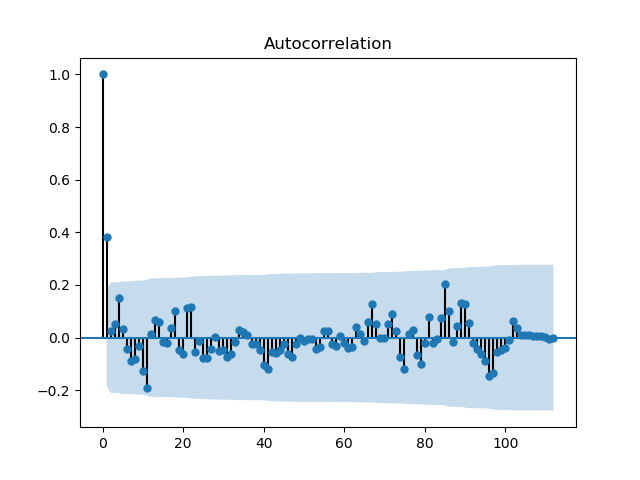
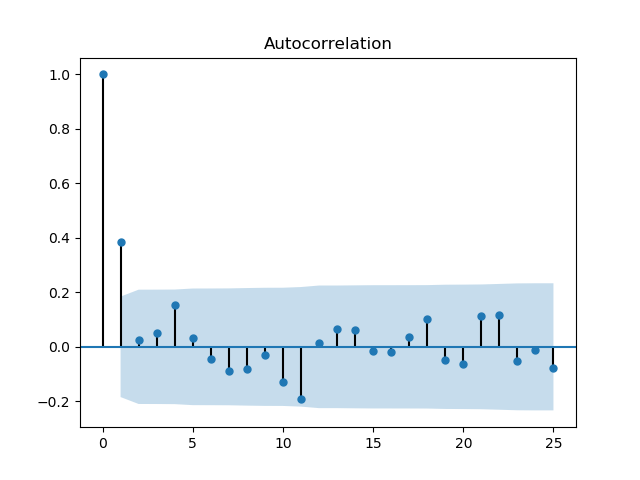
pushing everything

diff --git a/1/arima_all.py b/1/arima_all.py
@@ -4,6 +4,7 @@ import statsmodels.api as sm
 import numpy as np
 import matplotlib.pyplot as plt
 import sys
+import seaborn as sns
 
 from sklearn.metrics import mean_squared_error
 from sklearn.model_selection import train_test_split
@@ -21,12 +22,18 @@ with open('datasets-per-pacient/processed_df_all_pacients.pkl', 'rb') as f:
 # Drop timestamps since they are no longer needed
 df = df.drop('time', axis=1)
 
+corr_matrix = df.corr()
+sns.heatmap(corr_matrix)
+plt.show()
 # Plot autocorrelation
 
-# plot_acf(df['mood'])
+# plt.subplot(1, 2, 1)
+# plot_acf(df['mood'], lags=25)
 # plt.show()
-
+# plot_pacf(df['mood'], lags=25)
+# plt.show()
 # Split into training and validation
+
 train, test = train_test_split(df, train_size=0.8 ,shuffle=False)
 
 # Prepare exogenous and endogenous labels
@@ -43,7 +50,7 @@ x_test, y_test = test[exog_labels], test[endog_labels]
 x_test = np.asarray(x_test)
 y_test = np.asarray(y_test)
 # Define model
-model = ARIMA(exog=x_train, endog=y_train, order=(5,1,0))
+model = ARIMA(exog=x_train, endog=y_train, order=(2,1,0))
 model_fit = model.fit(max_iter=500, disp=10)
 
 # In sample prediction to get train error
@@ -63,14 +70,14 @@ yhat_test = undifference_result(yhat_test, y_test)
 # yhat_test = undifference_result(yhat_test, y_test)
 print('Test MSE :', mean_squared_error(yhat_test[:-3], y_test[:-3]))
 
-plt.subplot(2, 1, 1)
+plt.subplot(1, 2, 1)
 plt.plot(y_train, label='y train')
 plt.plot(yhat_train, label='yhat train')
 plt.grid()
 plt.legend()
 plt.title('In-sample predictions')
 
-plt.subplot(2, 1, 2)
+plt.subplot(1, 2, 2)
 plt.plot(y_test[:-3], label='y test')
 plt.plot(yhat_test[:-3], label='yhat test')
 plt.grid()

diff --git a/1/arima_eachpatient.py b/1/arima_eachpatient.py
@@ -17,6 +17,8 @@ mse_all = []
 pacient_indexes = []
 
 train_data_all = []
+forecasts_all = []
+ground_truth_all = []
 
 for findex,filename in enumerate(os.listdir(rootdir)):
 	skip = 0
@@ -61,9 +63,8 @@ for findex,filename in enumerate(os.listdir(rootdir)):
 	history = x_train.copy()
 	labels = y_train.copy()
 	forecast = []
-	forecasts_all = []
-	labels_all = []
-	train_data_all.append(x_train)
+
+	train_data_all.append(y_train)
 	for t in range(len(x_test)):
 
 		try:
@@ -74,7 +75,7 @@ for findex,filename in enumerate(os.listdir(rootdir)):
 		except Exception as e:
 			print(e)
 			skip = 1
-			pacient_indexes.append(filename)
+			pacient_indexes.append(findex)
 			break
 		
 		prediction = model.predict(1)[0]
@@ -88,7 +89,7 @@ for findex,filename in enumerate(os.listdir(rootdir)):
 		print('Pacient {} MSE rolling prediction: {}'.format(findex,mse))
 		mse_all.append(mse)
 		forecasts_all.append(forecast)
-		labels_all.append(y_test)
+		ground_truth_all.append(y_test)
 
 print(len(mse_all))
 print('Average MSE across all pacients: ', sum(mse_all)/len(mse_all))
@@ -97,6 +98,6 @@ with open('mse_all_arima.pkl', 'wb') as f:
 	pickle.dump(mse_all, f)
 
 with open('forecasts_vs_truth_arima.pkl', 'wb') as f:
-	pickle.dump([forecasts_all, labels_all, train_data_all, pacient_indexes], f)
+	pickle.dump([forecasts_all, ground_truth_all, train_data_all, pacient_indexes], f)
 
 print('Pacients for which arima could not train :', pacient_indexes)

diff --git a/1/plots_arima_eachpatient.py b/1/plots_arima_eachpatient.py
@@ -1,0 +1,42 @@
+import pickle
+import matplotlib.pyplot as plt
+import numpy as np
+from sklearn.metrics import mean_squared_error
+
+with open('forecasts_vs_truth_arima.pkl', 'rb') as f:
+	resultList = pickle.load(f)
+
+forecasts_all = resultList[0] 
+labels_all = resultList[1]
+train_data_all = resultList[2]
+pacient_indexes = resultList[3]
+
+print(forecasts_all)
+results = []
+mses = []
+for forecast, label in zip(forecasts_all, labels_all):
+	mses.append(mean_squared_error(forecast, label))
+
+print('Overall mse:', sum(mses)/len(mses))
+# del train_data_all[19]
+# del train_data_all[17]
+
+# forecasts_all = np.array(forecasts_all)
+# labels_all = np.array(labels_all)
+# train_data_all = np.array(train_data_all)
+
+# print(forecasts_all.shape)
+# print(labels_all.shape)
+
+# print(train_data_all.shape)
+# print(forecasts_all[0])
+# print(labels_all[0])
+# print(train_data_all[0])
+# for i in range(25):
+# 	ground_truth = np.append(train_data_all[i],labels_all[i])
+# 	plt.plot(ground_truth, label='ground truth')
+# 	plt.plot(range(len(train_data_all[i]),len(train_data_all[i])+10), forecasts_all[i], 'red', label='forecast')
+# 	plt.legend()
+# 	plt.title('ARIMA forecast for one patient')
+# 	plt.grid()
+# 	plt.show()
